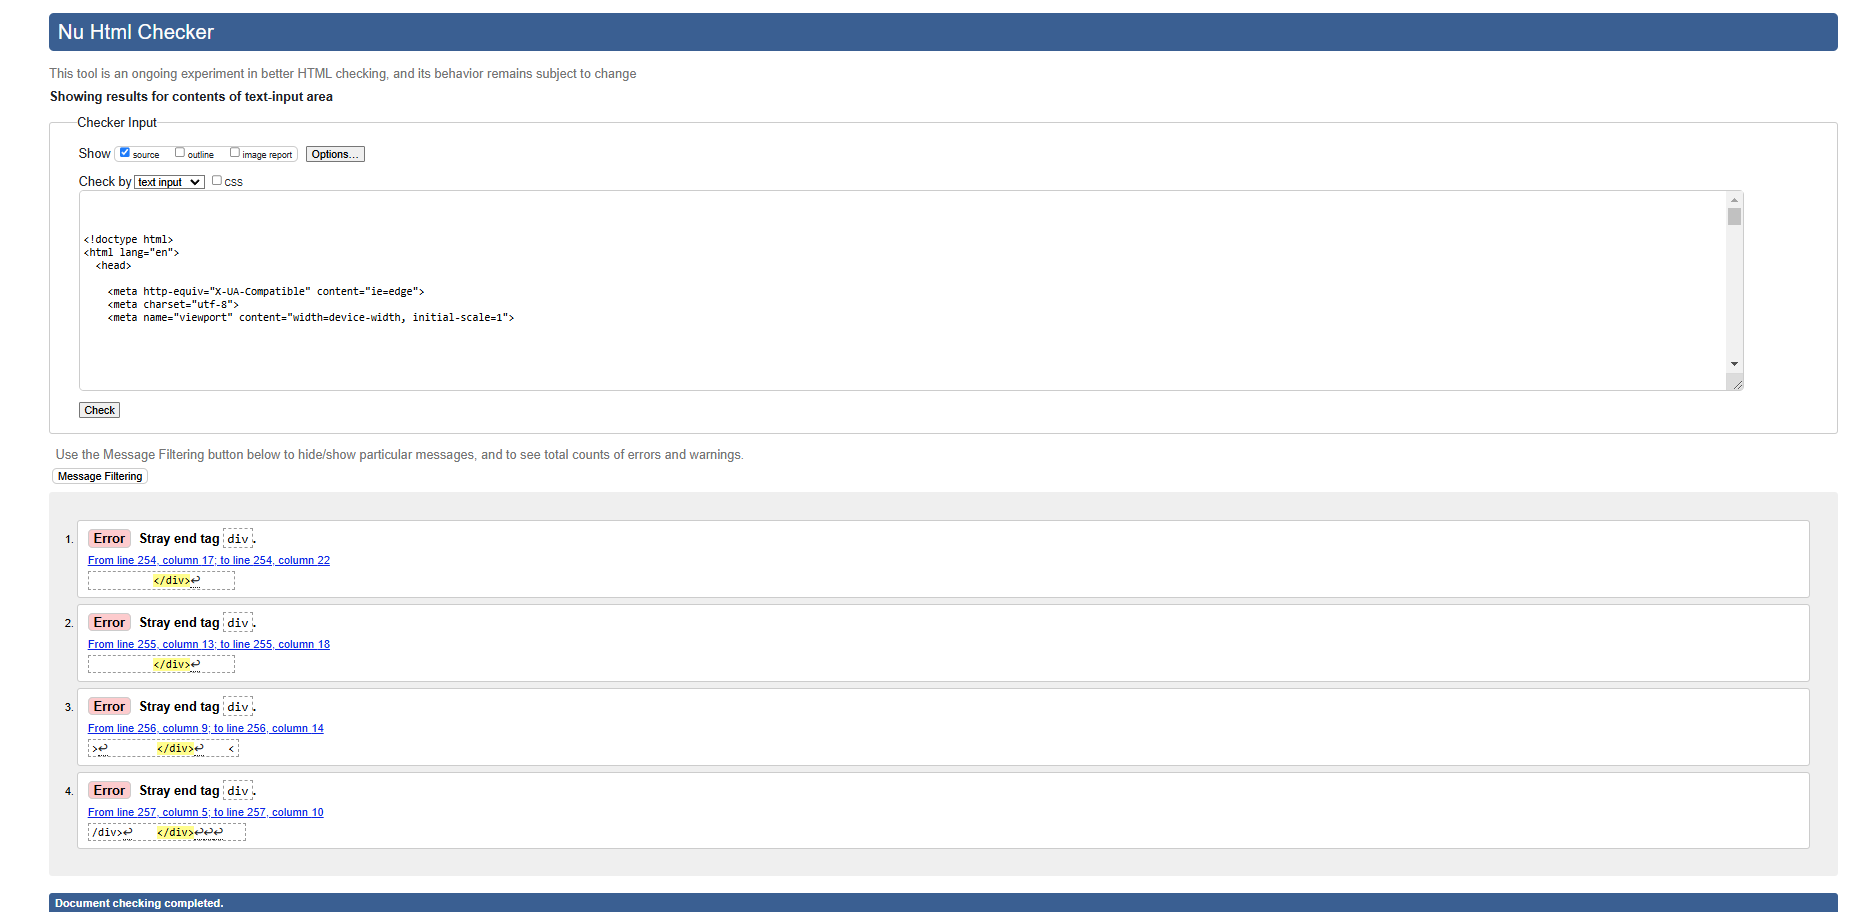
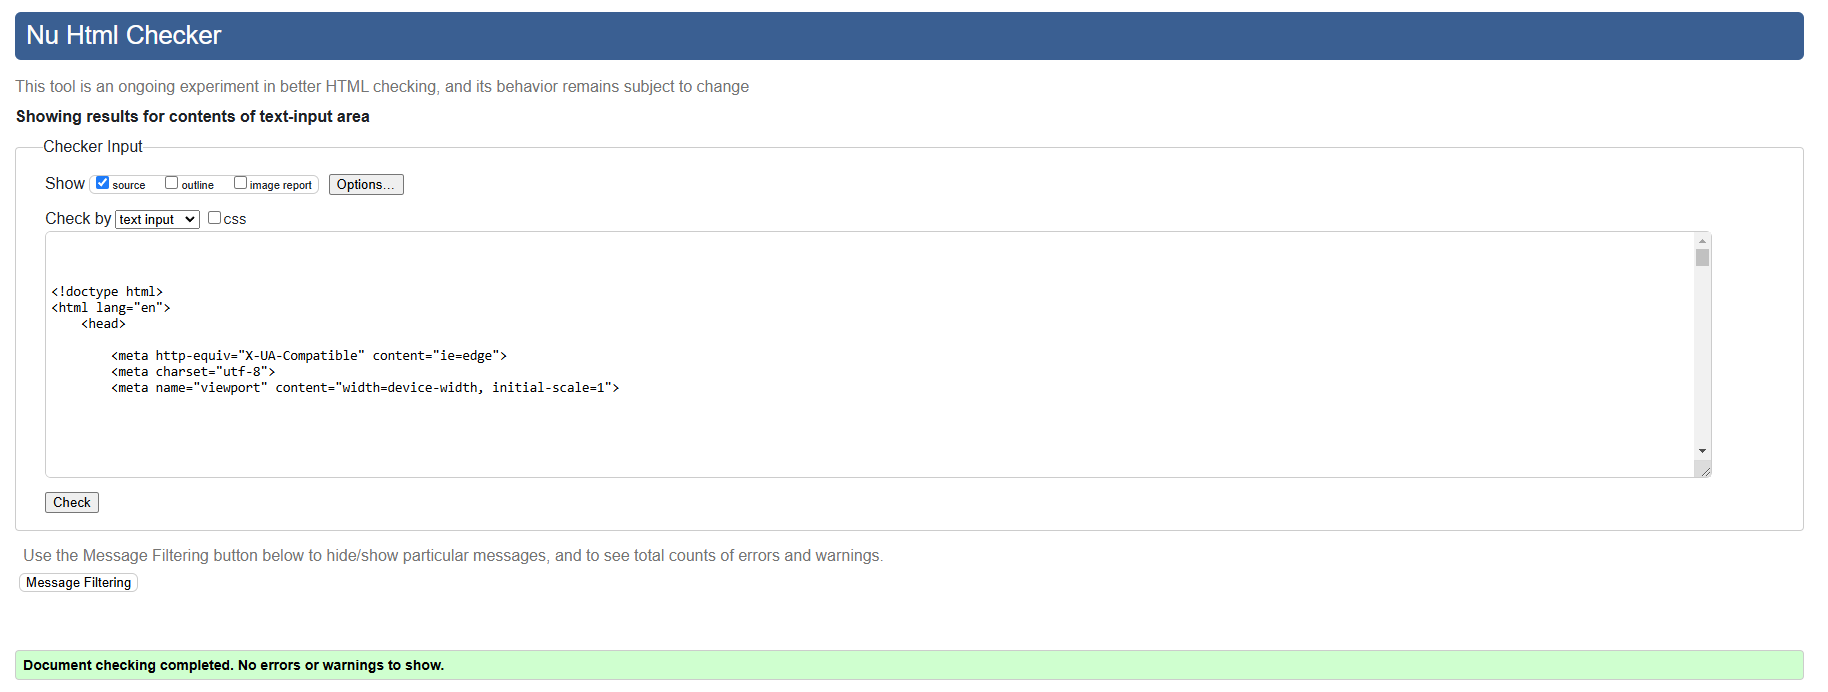
Update allauth login template and add more to TESTING.md

diff --git a/templates/allauth/account/login.html b/templates/allauth/account/login.html
@@ -56,10 +56,6 @@
                     {% if SOCIALACCOUNT_ENABLED %}
                         {% include "socialaccount/snippets/login.html" with page_layout="entrance" %}
                     {% endif %}
-            </div>
-        </div>
-    </div>
-</div>
 {% endblock inner_content %}
 {% block extra_body %}
     {{ block.super }}

diff --git a/TESTING.md b/TESTING.md
@@ -47,13 +47,13 @@ I used [W3C Markup Validation Service](https://validator.w3.org/) to validate al
 | 'templates/donations/donate.html' | 0 errors and 0 warnings | [Donation Page](./documentation/validation/html_validation/html-validator-donation-page.png) |
 | 'templates/donations/success.html' | 0 errors and 0 warnings | [Donation Success Page](./documentation/validation/html_validation/html-validator-donation-success.png) |
 | 'templates/profiles/profile.html' | 0 errors and 0 warnings | [Profile Page](./documentation/validation/html_validation/html-validator-profile-page.png) |
-| 'templates/allauth/account/login.html' | 4 errors and 0 warnings | [Log In Page](./documentation/validation/html_validation/html-account-signin-page.png) |
+| 'templates/allauth/account/login.html' | 0 errors and 0 warnings | [Log In Page](./documentation/validation/html_validation/html-account-signin-page.png) |
 | 'templates/allauth/account/logout.html' | 0 errors and 0 warnings | [Log Out Page](./documentation/validation/html_validation/html-validator-logout-page.png) |
 | 'templates/allauth/account/signup.html' | 4 errors and 0 warnings | [Sign Up Page](./documentation/validation/html_validation/html-account-signup-page.png) |
 | 'templates/allauth/account/password_rest.html' | 0 errors and 0 warnings | [Password Page](./documentation/validation/html_validation/html-password-reset-page.png) |
 | 404 page | 0 errors and 0 warnings | [404 page](./documentation/validation/html_validation/html-validator-404-error-page.png) |
 
-Errors found on login and signup pages were left as I could not figure out where these came from due to them being pre-defined Allauth templates using templating. With more time, I would have liked to investigate these in-depth and resolve the errors, the pages still work as they should.
+Errors found on the signup page was left as I could not figure out where these came from due it being a pre-defined Allauth template using django templating language and could not see any tags that hadn't been closed or where the stray tags were. With more time, I would have liked to investigate these in-depth and resolve the errors, the page still works as it should.
 
 ### CSS Validation
 I used [W3C CSS Validation Service](https://jigsaw.w3.org/css-validator/) to validate all CSS files by direct input.
@@ -214,9 +214,9 @@ Coverage needed to be installed by typing ``` pip install coverage ``` in the te
 | :-- | :-- | :-- | :-- | :-- | :-- |
 | **VIEWING & NAVIGATION** |  |  |  |  |  |
 | 1 | First Time User | Understand the concept of the website and how to use it | See what the site is about | The home page displays a clear navigation bar that has self explanatory links with text logo for the rescue, hero image, welcome header and small section of text that introduces the user to the rescue centre and explains about the rescue center | [Home Page Screenshot](./documentation/features/home-page-screenshot.png) |
-| 2 | First Time User | Go to the cat records & filter/sort them | See the cats at the rescue | The Home page features a "meet the cats" button that takes the user to the cats page when clicked, or there is a "cats" link within the navigation bar that contains a dropdown so the user can choose all cats or male/female cats. Once on the desired page, there is a button group at the top of the page which allows the user to filter by breed and colour also (it also contains the previous male/female cats options)| See above home page screenshot <br> [Cats Dropdown Menu Desktop](./documentation/testing/manual_testing/screenshots/cat-dropdown-menu.png) <br> [Cats Dropdown Menu Desktop](./documentation/testing/manual_testing/screenshots/cat-dropdown-mobile.png) <br> [Cats Sorting Buttons](./documentation/features/filter-buttons-feedback.png)|
+| 2 | First Time User | Go to the cat records & filter/sort them | See the cats at the rescue | The Home page features a "meet the cats" button that takes the user to the cats page when clicked, or there is a "cats" link within the navigation bar that contains a dropdown so the user can choose all cats or male/female cats. Once on the desired page, there is a button group at the top of the page which allows the user to filter by breed and colour also (it also contains the previous male/female cats options)| See above home page screenshot <br> [Cats Dropdown Menu Desktop](./documentation/testing/manual_testing/screenshots/cat-dropdown-menu.png) <br> [Cats Dropdown Menu Mobile](./documentation/testing/manual_testing/screenshots/cat-dropdown-mobile.png) <br> [Cats Sorting Buttons](./documentation/features/filter-buttons-feedback.png) |
 | 3 | First Time User | Contact the rescue centre | Offer to volunteer or ask any questions I may have | The users can quickly find the contact link within the main navigation bar, which takes them to the contact form page | [Main Nav Links](./documentation/testing/manual_testing/screenshots/main-nav-links.png) <br> [Contact Page Screenshot](./documentation/features/contact-page-screenshot.png) |
-| 4 | First Time User | Easily navigate to any of the other pages, from every page | Go wherever I choose on the website | The main navigation bar appears on every page | [Nav Bar Screenshot](./documentation/features/nav-bar-screenshot.png) |
+| 4 | First Time User | Easily navigate to any of the other pages, from every page | Go wherever I choose on the website | The main navigation bar appears on every page | [Navigation Bar Screenshot](./documentation/features/nav-bar-screenshot.png) |
 | 5 | Donator | Navigate to the correct page to donate | Make a general donation to the rescue | There is a donate link within the main navigation bar | Refer to above screenshot |
 | 6 | Superuser/Admin | View special pages to adjust the records on the website | Keep records up-to-date and what I want to be on the site | When a superuser is logged into the website, they can access a drop down menu that includes cat/blog management pages, only available to them | [Superuser/Admin Menu Links](./documentation/testing/manual_testing/screenshots/superuser-my-account-dropdown.png) |
 | **REGISTRATION & USER ACCOUNTS** |   |   |  |  |
